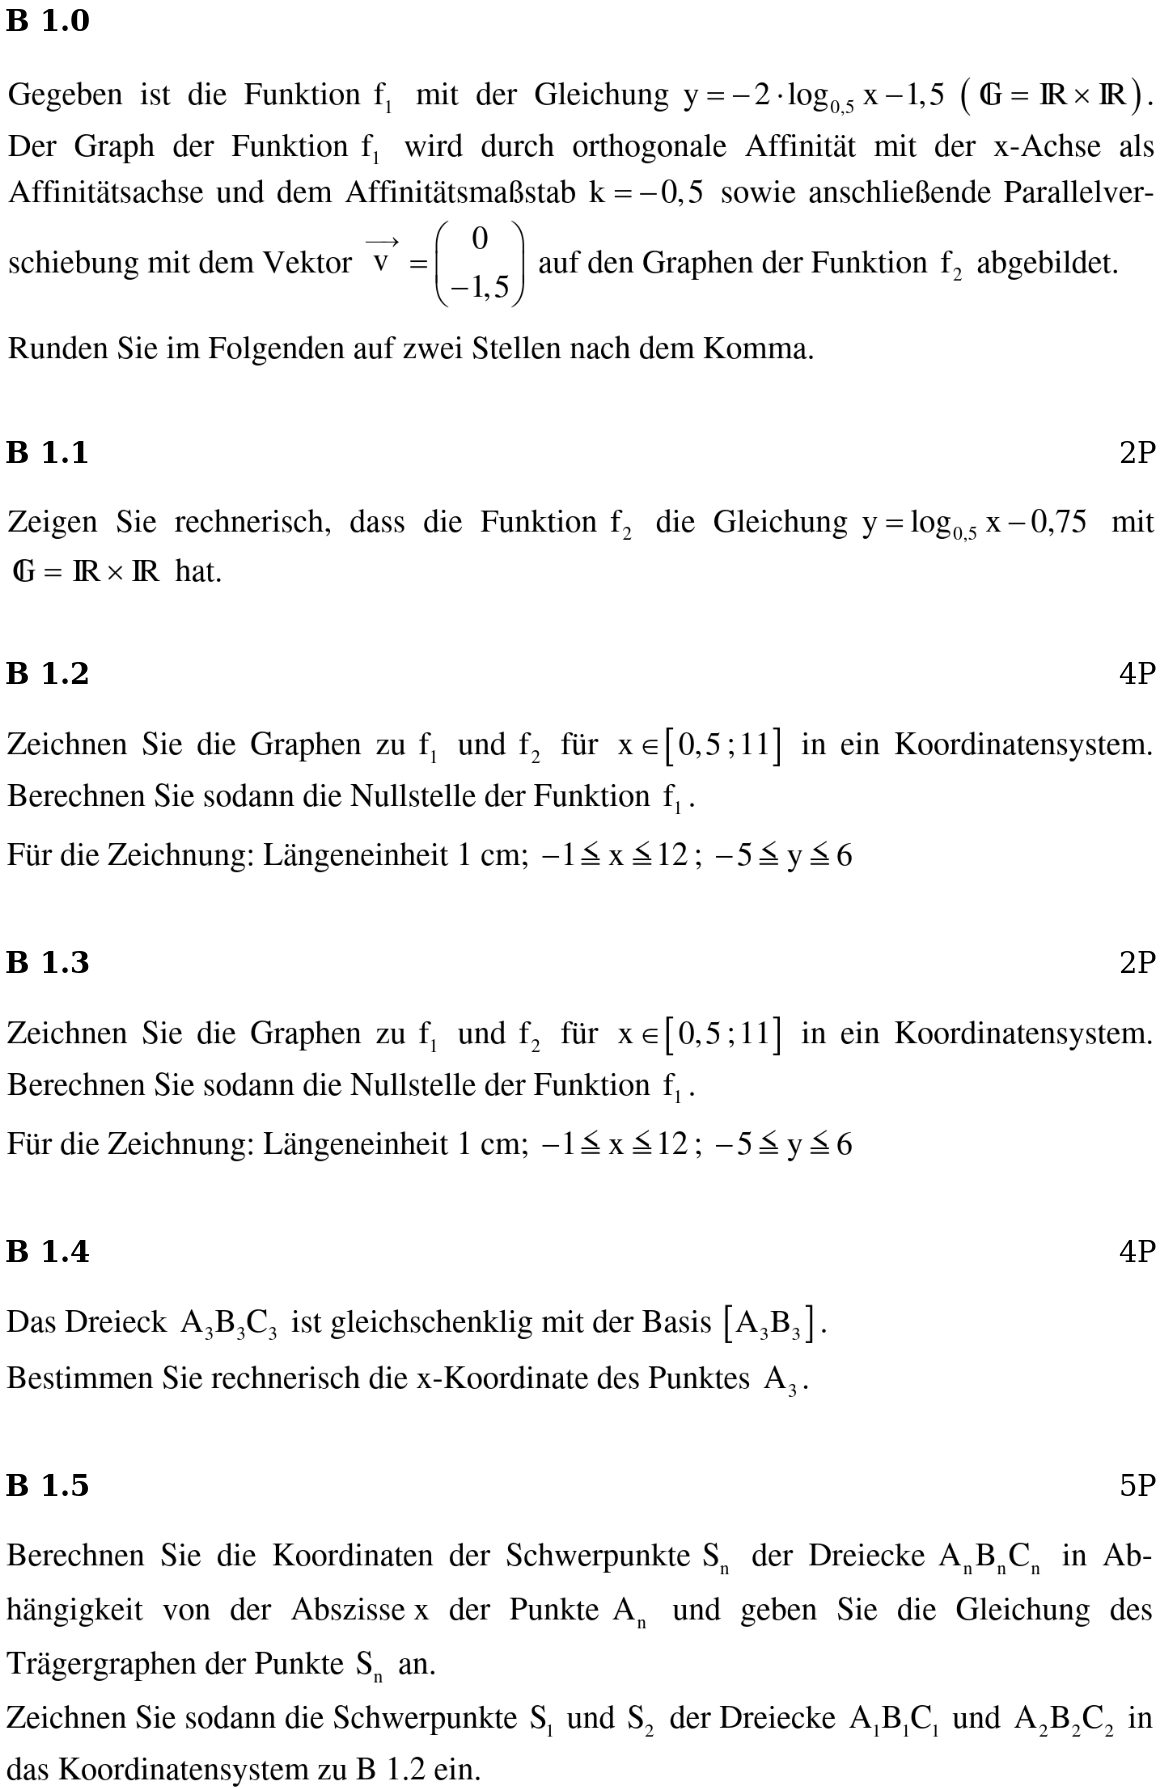
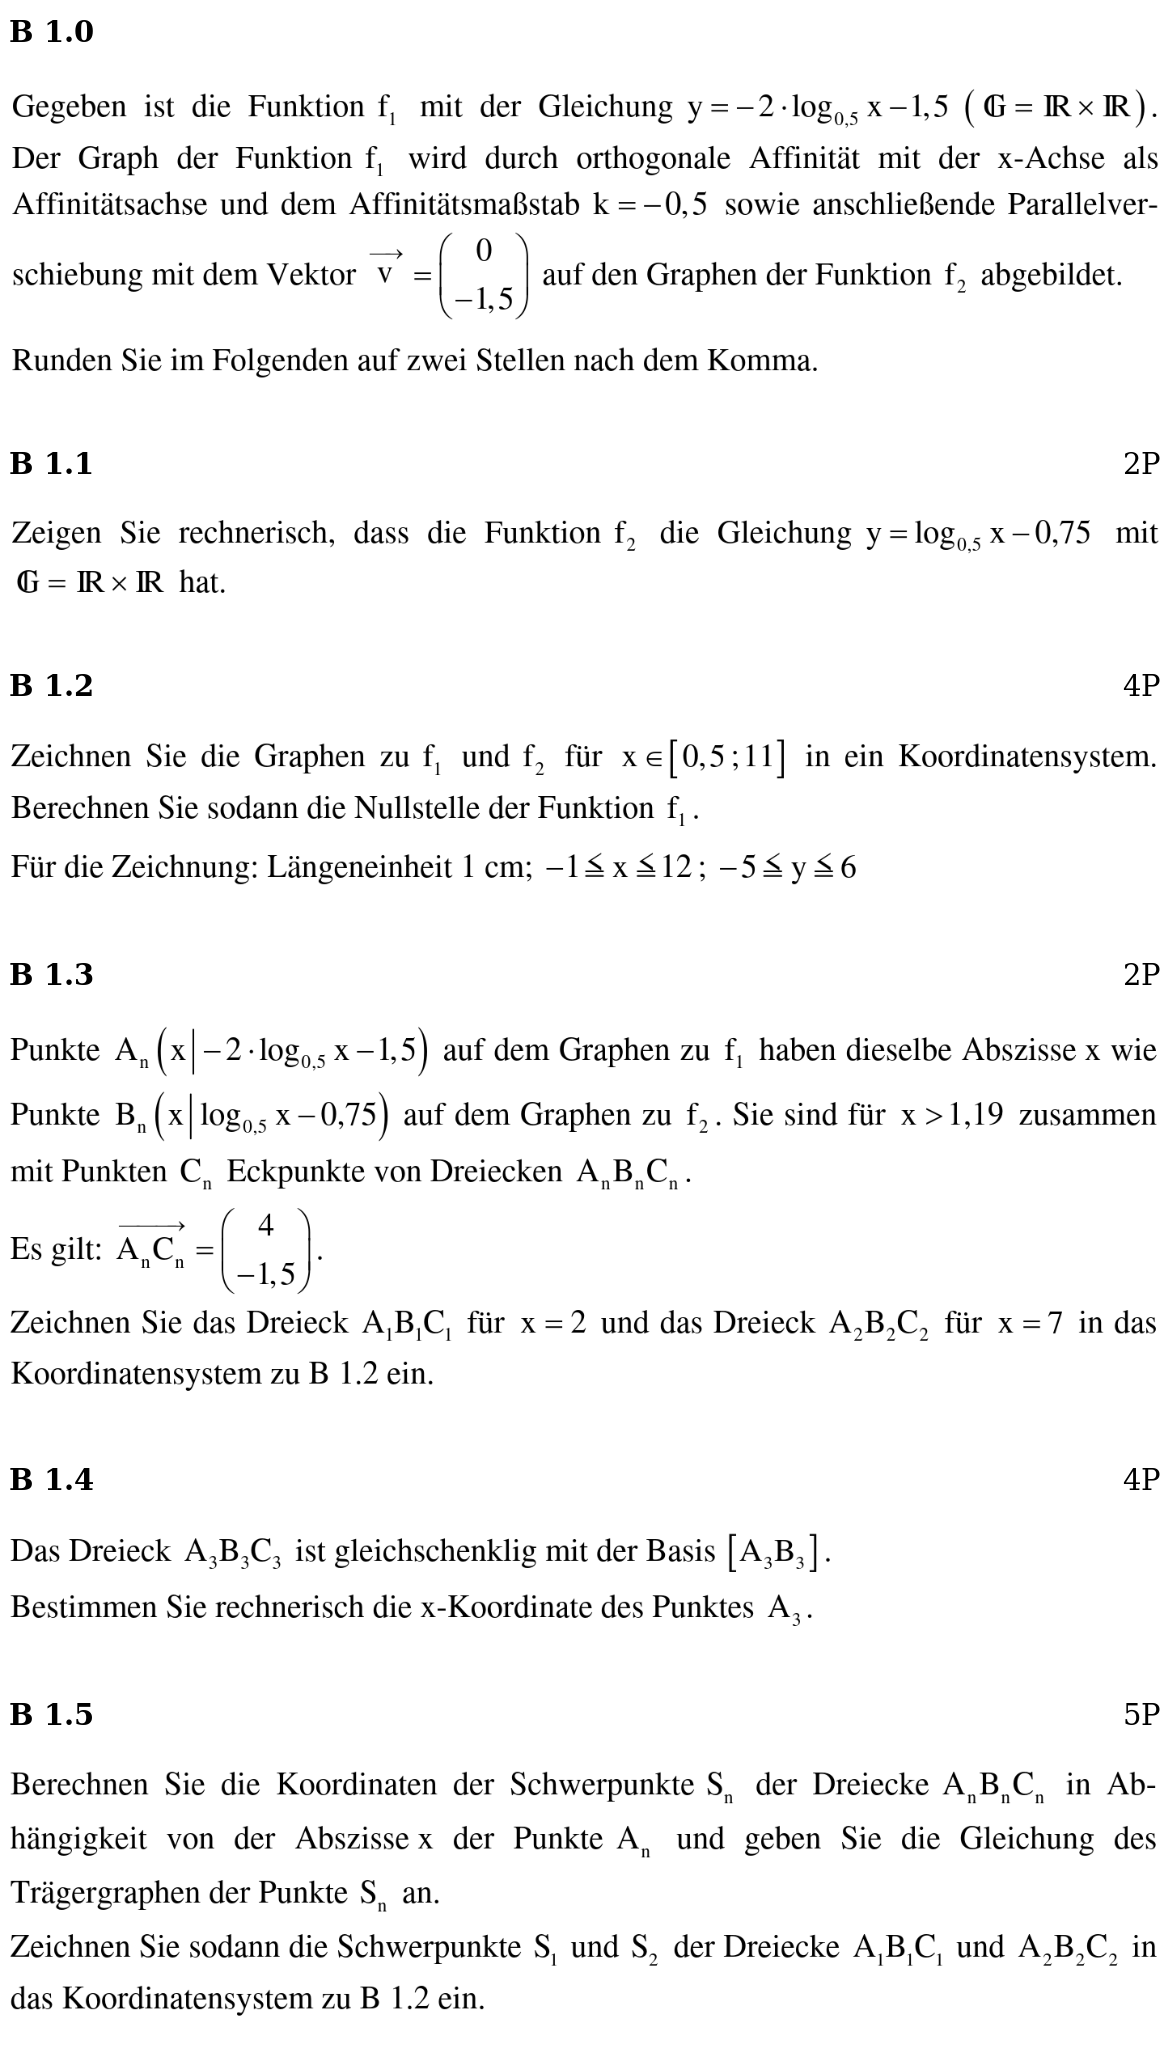
add b 1.3

diff --git a/src/data/exercise5.ts b/src/data/exercise5.ts
@@ -10,42 +10,42 @@ export const exercise5: ExerciseData = {
       mp3: '/content/5/b1_0.mp3',
       ogg: '/content/5/b1_0.ogg',
       size: 5,
-      position: { left: 9, top: -0.7 },
+      position: { left: 9, top: -0.2 },
       beforeQuiz: 0,
     },
     {
       mp3: '/content/5/b1_1.mp3',
       ogg: '/content/5/b1_1.ogg',
       size: 5,
-      position: { left: 9, top: 23.5 },
+      position: { left: 9, top: 20.8 },
       beforeQuiz: 0,
     },
     {
       mp3: '/content/5/b1_2.mp3',
       ogg: '/content/5/b1_2.ogg',
       size: 5,
-      position: { left: 9, top: 35.8 },
+      position: { left: 9, top: 31.5 },
       beforeQuiz: 4,
     },
     {
       mp3: '/content/5/b1_3.mp3',
       ogg: '/content/5/b1_3.ogg',
       size: 5,
-      position: { left: 9, top: 52 },
-      beforeQuiz: 999,
+      position: { left: 9, top: 45.7 },
+      beforeQuiz: 11,
     },
     {
       mp3: '/content/5/b1_4.mp3',
       ogg: '/content/5/b1_4.ogg',
       size: 5,
-      position: { left: 9, top: 68 },
-      beforeQuiz: 999,
+      position: { left: 9, top: 70.2 },
+      beforeQuiz: 14,
     },
     {
       mp3: '/content/5/b1_5.mp3',
       ogg: '/content/5/b1_5.ogg',
       size: 5,
-      position: { left: 9, top: 81.2 },
+      position: { left: 9, top: 81.5 },
       beforeQuiz: 999,
     },
   ],
@@ -61,7 +61,7 @@ export const exercise5: ExerciseData = {
       audioIndex: 2,
     },
     {
-      position: { x: 23, y: 34 },
+      position: { x: 23, y: 65 },
       title: 'Teilaufgabe B 1.3',
       audioIndex: 3,
     },
@@ -86,7 +86,7 @@ export const exercise5: ExerciseData = {
       cursor: { x: 15, y: 5 },
       quickviews: [
         { type: 'solution', start: 0, end: 6 },
-        { type: 'task', start: 9, end: 28 },
+        { type: 'task', start: 10, end: 29 },
       ],
       layersPre: [
         { src: '/content/5/1.PNG', offset: 1 },
@@ -103,7 +103,7 @@ export const exercise5: ExerciseData = {
       cursor: { x: 19, y: 9 },
       quickviews: [
         { type: 'solution', start: 4.7, end: 10 },
-        { type: 'task', start: 4, end: 12 },
+        { type: 'task', start: 5, end: 13 },
       ],
       layersPre: [{ src: '/content/5/4.PNG', offset: 7 }],
       layersPost: [{ src: '/content/5/5.PNG', offset: 7 }],
@@ -140,7 +140,7 @@ export const exercise5: ExerciseData = {
       wrong1: '1',
       wrong2: '2',
       cursor: { x: 6, y: 39 },
-      quickviews: [{ type: 'task', start: 4, end: 12 }],
+      quickviews: [{ type: 'task', start: 5, end: 13 }],
       layersPre: [
         { src: '/content/5/10.PNG', offset: 25 },
         { src: '/content/5/11.PNG', offset: 27 },
@@ -154,7 +154,7 @@ export const exercise5: ExerciseData = {
       wrong1: '1',
       wrong2: '3',
       cursor: { x: 13, y: 34 },
-      quickviews: [{ type: 'task', start: 4, end: 12 }],
+      quickviews: [{ type: 'task', start: 5, end: 13 }],
       layersPre: [],
       layersPost: [{ src: '/content/5/13.PNG', offset: 28 }],
     },
@@ -176,7 +176,7 @@ export const exercise5: ExerciseData = {
       wrong1: 'y = -2 &sdot; log<sub>0,5</sub> 0 - 1,5',
       wrong2: '-2 &sdot; log<sub>0,5</sub> x = 0',
       cursor: { x: 18, y: 54 },
-      quickviews: [{ type: 'task', start: 4, end: 12 }],
+      quickviews: [{ type: 'task', start: 5, end: 13 }],
       layersPre: [{ src: '/content/5/15.PNG', offset: 52 }],
       layersPost: [{ src: '/content/5/16.PNG', offset: 54 }],
     },
@@ -213,46 +213,43 @@ export const exercise5: ExerciseData = {
       layersPre: [{ src: '/content/5/21.PNG', offset: 62 }],
       layersPost: [{ src: '/content/5/22.PNG', offset: 62 }],
     },
+    {
+      description:
+        'Wo befindet sich die Strecke A<sub>1</sub>B<sub>1</sub> ? <img class="p-3 pt-8" src="/content/5/b13_1.png" />',
+      correctChoice: '2',
+      wrong1: '1',
+      wrong2: '3',
+      cursor: { x: 20, y: 65 },
+      quickviews: [{ type: 'task', start: 85, end: 123 }],
+      layersPre: [
+        { src: '/content/5/23.PNG', offset: 65 },
+        { src: '/content/5/24.PNG', offset: 65 },
+      ],
+      layersPost: [{ src: '/content/5/25.PNG', offset: 38 }],
+    },
+    {
+      description:
+        'Wo liegt der Punkt C<sub>1</sub> ? <img class="p-3 pt-8" src="/content/5/b13_2.png" />',
+      correctChoice: '2',
+      wrong1: '1',
+      wrong2: '3',
+      cursor: { x: 21, y: 65 },
+      quickviews: [{ type: 'task', start: 85, end: 123 }],
+      layersPre: [],
+      layersPost: [{ src: '/content/5/26.PNG', offset: 39 }],
+    },
+    {
+      description:
+        'Wo liegt der Punkt C<sub>2</sub> ? <img class="p-3 pt-8" src="/content/5/b13_3.png" />',
+      correctChoice: '2',
+      wrong1: '1',
+      wrong2: '3',
+      cursor: { x: 22, y: 65 },
+      quickviews: [{ type: 'task', start: 85, end: 123 }],
+      layersPre: [{ src: '/content/5/27.PNG', offset: 30 }],
+      layersPost: [{ src: '/content/5/28.PNG', offset: 32 }],
+    },
     /*{
-      description: 'TODO',
-      correctChoice: '---',
-      wrong1: '---',
-      wrong2: '---',
-      cursor: { x: 8, y: 7 },
-      quickviews: [
-        { type: 'task', start: 85, end: 125 },
-        { type: 'task', start: 15, end: 27 },
-      ],
-      layersPre: [],
-      layersPost: [],
-    },
-    {
-      description: 'TODO',
-      correctChoice: '---',
-      wrong1: '---',
-      wrong2: '---',
-      cursor: { x: 8, y: 7 },
-      quickviews: [
-        { type: 'task', start: 85, end: 125 },
-        { type: 'task', start: 15, end: 27 },
-      ],
-      layersPre: [],
-      layersPost: [],
-    },
-    {
-      description: 'TODO',
-      correctChoice: '---',
-      wrong1: '---',
-      wrong2: '---',
-      cursor: { x: 8, y: 7 },
-      quickviews: [
-        { type: 'task', start: 85, end: 125 },
-        { type: 'task', start: 15, end: 27 },
-      ],
-      layersPre: [],
-      layersPost: [],
-    },
-    {
       description: 'TODO',
       correctChoice: '---',
       wrong1: '---',
